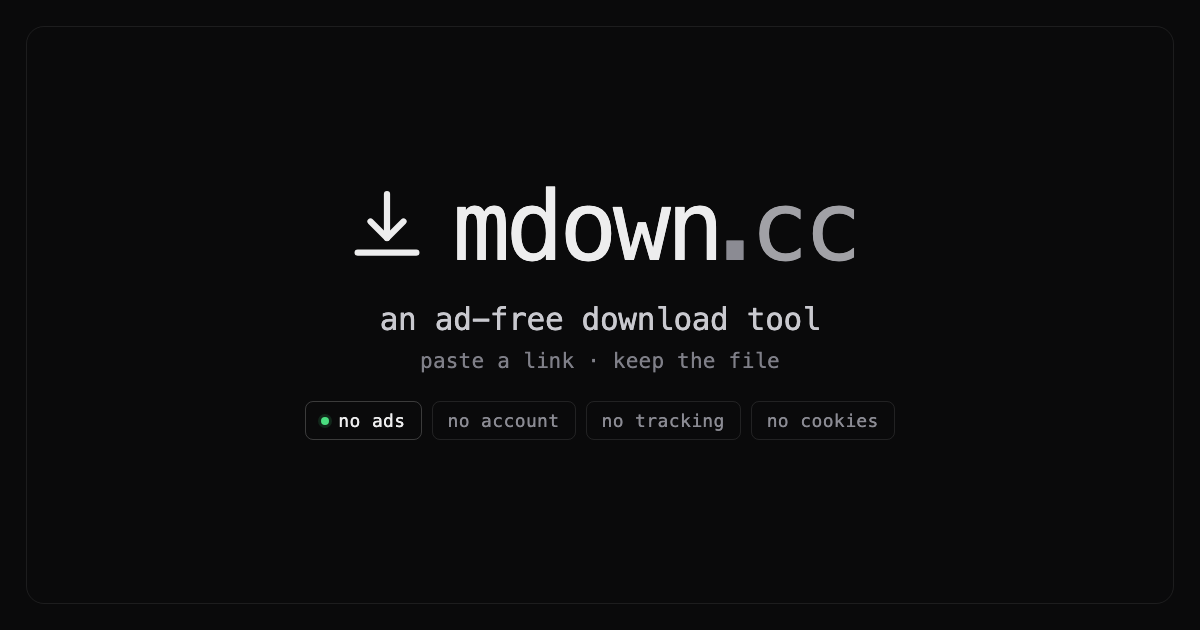
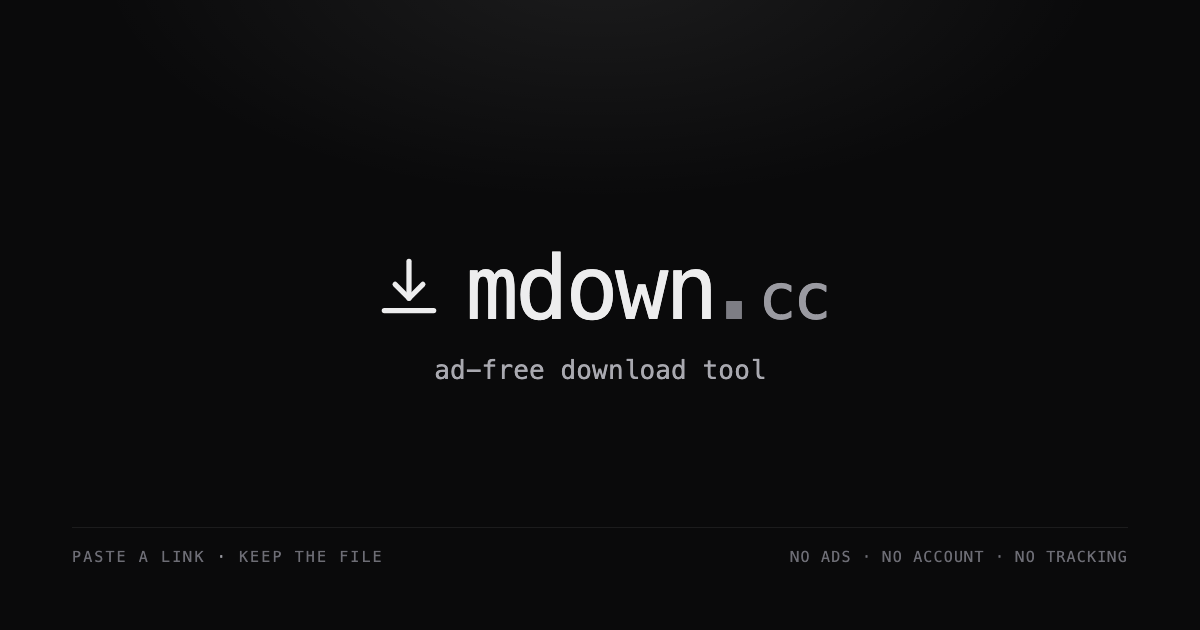
embed: 'mdown.cc — ad-free download tool', a redrawn card with one line and a hairline foot, complete tags on every page (api.html had none)

diff --git a/tests/og-card.html b/tests/og-card.html
@@ -7,7 +7,7 @@
   The 1200x630 card every link preview uses. Not published: render it with
 
     chrome --headless --disable-gpu --hide-scrollbars --window-size=1200,630 \
-      --screenshot=assets/og-card.png tests/og-card.html
+      --force-device-scale-factor=1 --screenshot=assets/og-card.png tests/og-card.html
 
   It is a standalone page on purpose — the app itself is versioned, themed and
   connects to a server, none of which belongs in a static preview.
@@ -16,61 +16,55 @@
   html, body { margin: 0; width: 1200px; height: 630px; background: #0a0a0b; }
   body {
     font-family: ui-monospace, "SF Mono", SFMono-Regular, Menlo, Consolas, monospace;
-    color: #ededee;
-    display: grid; place-items: center;
-    overflow: hidden;
+    color: #ededee; overflow: hidden;
   }
-  .card { width: 100%; height: 100%; display: grid; place-items: center; position: relative; }
-  .frame {
-    position: absolute; inset: 26px; border: 1px solid rgba(255, 255, 255, 0.08);
-    border-radius: 18px;
+  /* one pool of light, the same gesture as the page: lit, not decorated */
+  .card {
+    width: 100%; height: 100%; position: relative;
+    display: grid; align-content: center; justify-items: center;
+    background:
+      radial-gradient(720px 340px at 50% -6%, rgba(255,255,255,0.075), transparent 70%),
+      #0a0a0b;
   }
-  .inner { display: grid; justify-items: center; gap: 26px; transform: translateY(-6px); }
+  .logo { display: flex; align-items: center; gap: 20px; margin-bottom: 22px; }
+  .mark svg { display: block; width: 74px; height: 74px; }
+  .word { font-size: 88px; letter-spacing: -0.035em; font-weight: 500; line-height: 1; }
+  .word .dot { color: #7d7d84; margin: 0 -0.06em; }
+  .word .cc { color: #9a9aa1; font-weight: 400; font-size: 0.72em; margin-left: 0.06em; }
 
-  .logo { display: flex; align-items: center; gap: 22px; }
-  .mark { color: #ededee; }
-  .mark svg { display: block; width: 88px; height: 88px; }
-  .word { font-size: 96px; letter-spacing: -0.045em; font-weight: 500; line-height: 1; }
-  .word .dot { color: #8b8b93; margin: 0 -0.12em; }
-  .word .cc { color: #a1a1a6; font-weight: 400; }
-
-  .tagline { font-size: 31px; color: #c9c9cf; letter-spacing: -0.01em; }
-
-  .sub { font-size: 21px; color: #7f7f88; letter-spacing: 0.01em; margin-top: -14px; }
-.chips { display: flex; gap: 10px; margin-top: 2px; }
-  .chip {
-    padding: 8px 15px; border-radius: 8px;
-    border: 1px solid rgba(255, 255, 255, 0.1);
-    color: #8b8b93; font-size: 18px; letter-spacing: 0.02em;
+  .tagline {
+    font-size: 26px; color: #a9a9b0; letter-spacing: 0.005em;
+    margin: 0;
   }
-  .chip.live { color: #ededee; border-color: rgba(255, 255, 255, 0.2); }
-  .chip.live::before {
-    content: ""; display: inline-block; vertical-align: 2px;
-    width: 8px; height: 8px; border-radius: 50%; background: #4ade80;
-    margin-right: 9px; box-shadow: 0 0 0 3px rgba(74, 222, 128, 0.14);
+
+  /* the foot: a hairline, the address on one side, the promise on the other */
+  .foot {
+    position: absolute; left: 72px; right: 72px; bottom: 64px;
+    display: flex; align-items: center; justify-content: space-between;
+    padding-top: 20px;
+    border-top: 1px solid rgba(255, 255, 255, 0.075);
+    font-size: 15px; letter-spacing: 0.14em; text-transform: uppercase;
+    color: #6d6d75;
   }
+  .foot .right { letter-spacing: 0.08em; }
+  .foot b { font-weight: 400; color: #9a9aa1; }
 </style>
 </head>
 <body>
   <div class="card">
-    <div class="frame" aria-hidden="true"></div>
-    <div class="inner">
-      <div class="logo">
-        <span class="mark" aria-hidden="true">
-          <svg viewBox="0 0 24 24" fill="none" stroke="currentColor" stroke-width="1.7" stroke-linecap="round" stroke-linejoin="round">
-            <path d="M12 3v12"/><path d="m7.5 10.5 4.5 4.5 4.5-4.5"/><path d="M4 19h16"/>
-          </svg>
-        </span>
-        <span class="word">mdown<span class="dot">.</span><span class="cc">cc</span></span>
-      </div>
-      <div class="tagline">an ad-free download tool</div>
-      <div class="sub">paste a link · keep the file</div>
-      <div class="chips">
-        <span class="chip live">no ads</span>
-        <span class="chip">no account</span>
-        <span class="chip">no tracking</span>
-        <span class="chip">no cookies</span>
-      </div>
+    <div class="logo">
+      <span class="mark" aria-hidden="true">
+        <svg viewBox="0 0 24 24" fill="none" stroke="currentColor" stroke-width="1.7" stroke-linecap="round" stroke-linejoin="round">
+          <path d="M12 3v12"/><path d="m7.5 10.5 4.5 4.5 4.5-4.5"/><path d="M4 19h16"/>
+        </svg>
+      </span>
+      <span class="word">mdown<span class="dot">.</span><span class="cc">cc</span></span>
+    </div>
+    <p class="tagline">ad-free download tool</p>
+
+    <div class="foot" aria-hidden="true">
+      <span>paste a link<b> · </b>keep the file</span>
+      <span class="right">no ads · no account · no tracking</span>
     </div>
   </div>
 </body>

diff --git a/index.html b/index.html
@@ -6,7 +6,7 @@
 <meta http-equiv="Content-Security-Policy" content="default-src 'self'; script-src 'self' 'unsafe-inline' 'wasm-unsafe-eval' https://challenges.cloudflare.com; style-src 'self' 'unsafe-inline'; img-src 'self' data: blob: http: https:; media-src 'self' blob:; font-src 'self' data:; connect-src 'self' http: https:; frame-src https://challenges.cloudflare.com; worker-src 'self' blob:; child-src 'self' blob:; object-src 'none'; base-uri 'none'; form-action 'none'">
 <meta name="referrer" content="strict-origin-when-cross-origin">
 <meta name="viewport" content="width=device-width, initial-scale=1, viewport-fit=cover">
-<title>mdown.cc — an ad-free download tool</title>
+<title>mdown.cc — ad-free download tool</title>
 <meta name="description" content="No ads, no account, no tracking. Paste a link and keep the video or audio — plus remux, subtitle and metadata tools that run in your browser.">
 <meta name="robots" content="index, follow, max-image-preview:large, max-snippet:-1">
 <meta name="keywords" content="media downloader, video downloader, audio downloader, mp4, mp3, remux, subtitle extractor, metadata cleaner, no ads, no account">
@@ -15,18 +15,18 @@
 <meta property="og:type" content="website">
 <meta property="og:site_name" content="mdown.cc">
 <meta property="og:url" content="https://mdown.cc/">
-<meta property="og:title" content="mdown.cc — an ad-free download tool">
+<meta property="og:title" content="mdown.cc — ad-free download tool">
 <meta property="og:description" content="No ads, no account, no tracking. Paste a link and keep the video or audio.">
-<meta property="og:image" content="https://mdown.cc/assets/og-card.png?v=4">
+<meta property="og:image" content="https://mdown.cc/assets/og-card.png?v=5">
 <meta property="og:image:type" content="image/png">
 <meta property="og:image:width" content="1200">
 <meta property="og:image:height" content="630">
-<meta property="og:image:alt" content="mdown.cc — a monochrome wordmark on a black card.">
+<meta property="og:image:alt" content="mdown.cc — ad-free download tool, in monospace on a near-black card.">
 <meta property="og:locale" content="en_US">
 <meta name="twitter:card" content="summary_large_image">
-<meta name="twitter:image" content="https://mdown.cc/assets/og-card.png?v=4">
-<meta name="twitter:image:alt" content="mdown.cc — a monochrome wordmark on a black card.">
-<meta name="twitter:title" content="mdown.cc — an ad-free download tool">
+<meta name="twitter:image" content="https://mdown.cc/assets/og-card.png?v=5">
+<meta name="twitter:image:alt" content="mdown.cc — ad-free download tool, in monospace on a near-black card.">
+<meta name="twitter:title" content="mdown.cc — ad-free download tool">
 <meta name="twitter:description" content="No ads, no account, no tracking. Paste a link and keep the video or audio.">
 <meta name="color-scheme" content="dark light">
 <meta name="theme-color" content="#0a0a0b">
@@ -988,7 +988,7 @@
 
 <noscript>
   <div class="wrap" style="padding-bottom:32px">
-    <h2>mdown.cc — an ad-free download tool</h2>
+    <h2>mdown.cc — ad-free download tool</h2>
     <p>mdown.cc is a media downloader for video and audio: no ads, no account, no tracking. It saves MP4, WebM, MKV, MP3, OGG, OPUS and WAV from about thirty services, and includes three tools that run in the browser: a remuxer, a subtitle extractor and a metadata cleaner.</p>
     <p>Downloading needs JavaScript. The <a href="updates.html">changelog</a>, <a href="terms.html">terms</a> and <a href="status.html">status</a> pages do not.</p>
   </div>

diff --git a/status.html b/status.html
@@ -7,7 +7,7 @@
 <meta name="referrer" content="strict-origin-when-cross-origin">
 <meta name="viewport" content="width=device-width, initial-scale=1, viewport-fit=cover">
 <title>Status — mdown.cc</title>
-<meta name="description" content="Live health of the mdown API: downloader, ffmpeg, storage and queue depth.">
+<meta name="description" content="Live health of the mdown.cc API: downloader, ffmpeg, storage and queue depth.">
 <link rel="canonical" href="https://mdown.cc/status.html">
 <meta name="robots" content="noindex">
 <meta property="og:type" content="website">
@@ -15,16 +15,16 @@
 <meta property="og:url" content="https://mdown.cc/status.html">
 <meta property="og:title" content="Status — mdown.cc">
 <meta property="og:description" content="Live health of the mdown.cc API: downloader, ffmpeg, storage and queue depth.">
-<meta property="og:image" content="https://mdown.cc/assets/og-card.png?v=4">
+<meta property="og:image" content="https://mdown.cc/assets/og-card.png?v=5">
 <meta property="og:image:type" content="image/png">
 <meta property="og:image:width" content="1200">
 <meta property="og:image:height" content="630">
-<meta property="og:image:alt" content="mdown.cc — a monochrome wordmark on a black card.">
+<meta property="og:image:alt" content="mdown.cc — ad-free download tool, in monospace on a near-black card.">
 <meta name="twitter:card" content="summary_large_image">
 <meta name="twitter:title" content="Status — mdown.cc">
 <meta name="twitter:description" content="Live health of the mdown.cc API: downloader, ffmpeg, storage and queue depth.">
-<meta name="twitter:image" content="https://mdown.cc/assets/og-card.png?v=4">
-<meta name="twitter:image:alt" content="mdown.cc — a monochrome wordmark on a black card.">
+<meta name="twitter:image" content="https://mdown.cc/assets/og-card.png?v=5">
+<meta name="twitter:image:alt" content="mdown.cc — ad-free download tool, in monospace on a near-black card.">
 <meta name="color-scheme" content="dark light">
 <meta name="theme-color" content="#0a0a0b">
 <link rel="manifest" href="manifest.webmanifest">

diff --git a/api.html b/api.html
@@ -9,6 +9,22 @@
 <meta name="description" content="api.mdown.cc is one small server for this page. Who may call it, what the limits are, and how to run your own.">
 <link rel="canonical" href="https://mdown.cc/api.html">
 <meta name="robots" content="index, follow">
+<meta property="og:type" content="website">
+<meta property="og:site_name" content="mdown.cc">
+<meta property="og:url" content="https://mdown.cc/api.html">
+<meta property="og:title" content="API use — mdown.cc">
+<meta property="og:description" content="api.mdown.cc is one small server for this page: who may call it, what the limits are, and how to run your own.">
+<meta property="og:image" content="https://mdown.cc/assets/og-card.png?v=5">
+<meta property="og:image:type" content="image/png">
+<meta property="og:image:width" content="1200">
+<meta property="og:image:height" content="630">
+<meta property="og:image:alt" content="mdown.cc — ad-free download tool, in monospace on a near-black card.">
+<meta property="og:locale" content="en_US">
+<meta name="twitter:card" content="summary_large_image">
+<meta name="twitter:title" content="API use — mdown.cc">
+<meta name="twitter:description" content="api.mdown.cc is one small server for this page: who may call it, what the limits are, and how to run your own.">
+<meta name="twitter:image" content="https://mdown.cc/assets/og-card.png?v=5">
+<meta name="twitter:image:alt" content="mdown.cc — ad-free download tool, in monospace on a near-black card.">
 <meta name="color-scheme" content="dark light">
 <meta name="theme-color" content="#0a0a0b">
 <link rel="stylesheet" href="assets/app.css?v=229">

diff --git a/donate.html b/donate.html
@@ -15,16 +15,16 @@
 <meta property="og:url" content="https://mdown.cc/donate.html">
 <meta property="og:title" content="Support — mdown.cc">
 <meta property="og:description" content="mdown.cc is free, with no ads and no account. If it saved you an evening you can leave a tip; nothing changes if you don't.">
-<meta property="og:image" content="https://mdown.cc/assets/og-card.png?v=4">
+<meta property="og:image" content="https://mdown.cc/assets/og-card.png?v=5">
 <meta property="og:image:type" content="image/png">
 <meta property="og:image:width" content="1200">
 <meta property="og:image:height" content="630">
-<meta property="og:image:alt" content="mdown.cc — a monochrome wordmark on a black card.">
+<meta property="og:image:alt" content="mdown.cc — ad-free download tool, in monospace on a near-black card.">
 <meta name="twitter:card" content="summary_large_image">
 <meta name="twitter:title" content="Support — mdown.cc">
 <meta name="twitter:description" content="mdown.cc is free, with no ads and no account. If it saved you an evening you can leave a tip; nothing changes if you don't.">
-<meta name="twitter:image" content="https://mdown.cc/assets/og-card.png?v=4">
-<meta name="twitter:image:alt" content="mdown.cc — a monochrome wordmark on a black card.">
+<meta name="twitter:image" content="https://mdown.cc/assets/og-card.png?v=5">
+<meta name="twitter:image:alt" content="mdown.cc — ad-free download tool, in monospace on a near-black card.">
 <meta name="color-scheme" content="dark light">
 <meta name="theme-color" content="#0a0a0b">
 <link rel="manifest" href="manifest.webmanifest">

diff --git a/updates.html b/updates.html
@@ -15,16 +15,16 @@
 <meta property="og:url" content="https://mdown.cc/updates.html">
 <meta property="og:title" content="Updates — mdown.cc">
 <meta property="og:description" content="What changed in mdown.cc, newest first: formats, mobile fixes, limits, and the things that broke and got fixed.">
-<meta property="og:image" content="https://mdown.cc/assets/og-card.png?v=4">
+<meta property="og:image" content="https://mdown.cc/assets/og-card.png?v=5">
 <meta property="og:image:type" content="image/png">
 <meta property="og:image:width" content="1200">
 <meta property="og:image:height" content="630">
-<meta property="og:image:alt" content="mdown.cc — a monochrome wordmark on a black card.">
+<meta property="og:image:alt" content="mdown.cc — ad-free download tool, in monospace on a near-black card.">
 <meta name="twitter:card" content="summary_large_image">
 <meta name="twitter:title" content="Updates — mdown.cc">
 <meta name="twitter:description" content="What changed in mdown.cc, newest first: formats, mobile fixes, limits, and the things that broke and got fixed.">
-<meta name="twitter:image" content="https://mdown.cc/assets/og-card.png?v=4">
-<meta name="twitter:image:alt" content="mdown.cc — a monochrome wordmark on a black card.">
+<meta name="twitter:image" content="https://mdown.cc/assets/og-card.png?v=5">
+<meta name="twitter:image:alt" content="mdown.cc — ad-free download tool, in monospace on a near-black card.">
 <meta name="color-scheme" content="dark light">
 <meta name="theme-color" content="#0a0a0b">
 <link rel="manifest" href="manifest.webmanifest">

diff --git a/terms.html b/terms.html
@@ -15,16 +15,16 @@
 <meta property="og:url" content="https://mdown.cc/terms.html">
 <meta property="og:title" content="Terms — mdown.cc">
 <meta property="og:description" content="The short, plain version of what mdown.cc does and does not do with your links, your files and your browser.">
-<meta property="og:image" content="https://mdown.cc/assets/og-card.png?v=4">
+<meta property="og:image" content="https://mdown.cc/assets/og-card.png?v=5">
 <meta property="og:image:type" content="image/png">
 <meta property="og:image:width" content="1200">
 <meta property="og:image:height" content="630">
-<meta property="og:image:alt" content="mdown.cc — a monochrome wordmark on a black card.">
+<meta property="og:image:alt" content="mdown.cc — ad-free download tool, in monospace on a near-black card.">
 <meta name="twitter:card" content="summary_large_image">
 <meta name="twitter:title" content="Terms — mdown.cc">
 <meta name="twitter:description" content="The short, plain version of what mdown.cc does and does not do with your links, your files and your browser.">
-<meta name="twitter:image" content="https://mdown.cc/assets/og-card.png?v=4">
-<meta name="twitter:image:alt" content="mdown.cc — a monochrome wordmark on a black card.">
+<meta name="twitter:image" content="https://mdown.cc/assets/og-card.png?v=5">
+<meta name="twitter:image:alt" content="mdown.cc — ad-free download tool, in monospace on a near-black card.">
 <meta name="color-scheme" content="dark light">
 <meta name="theme-color" content="#0a0a0b">
 <link rel="manifest" href="manifest.webmanifest">

diff --git a/sources.html b/sources.html
@@ -15,15 +15,16 @@
 <meta property="og:url" content="https://mdown.cc/sources.html">
 <meta property="og:title" content="Sources — mdown.cc">
 <meta property="og:description" content="The 33 services mdown can fetch from, with a link to each one.">
-<meta property="og:image" content="https://mdown.cc/assets/og-card.png?v=4">
+<meta property="og:image" content="https://mdown.cc/assets/og-card.png?v=5">
 <meta property="og:image:type" content="image/png">
 <meta property="og:image:width" content="1200">
 <meta property="og:image:height" content="630">
-<meta property="og:image:alt" content="mdown.cc — a monochrome wordmark on a black card.">
+<meta property="og:image:alt" content="mdown.cc — ad-free download tool, in monospace on a near-black card.">
 <meta name="twitter:card" content="summary_large_image">
 <meta name="twitter:title" content="Sources — mdown.cc">
 <meta name="twitter:description" content="The 33 services mdown can fetch from, with a link to each one.">
-<meta name="twitter:image" content="https://mdown.cc/assets/og-card.png?v=4">
+<meta name="twitter:image" content="https://mdown.cc/assets/og-card.png?v=5">
+<meta name="twitter:image:alt" content="mdown.cc — ad-free download tool, in monospace on a near-black card.">
 <meta name="theme-color" content="#0a0a0b">
 <meta name="color-scheme" content="dark light">
 <link rel="manifest" href="manifest.webmanifest">

diff --git a/tests/meta.test.html b/tests/meta.test.html
@@ -60,6 +60,11 @@ async function main() {
   record("the image has alt text", meta(doc, "property", "og:image:alt").length > 20,
     meta(doc, "property", "og:image:alt"));
 
+  // the line in the embed is the line on the site, minus the article
+  record("the card title is the logline",
+    meta(doc, "property", "og:title") === "mdown.cc — ad-free download tool",
+    meta(doc, "property", "og:title"));
+
   record("twitter uses the large card with the same image",
     meta(doc, "name", "twitter:card") === "summary_large_image" &&
     meta(doc, "name", "twitter:image") === image,
@@ -80,7 +85,7 @@ async function main() {
     loaded.w + "x" + loaded.h);
 
   // every published page carries a card, not just the home page
-  const pages = ["updates.html", "donate.html", "terms.html", "status.html"];
+  const pages = ["updates.html", "donate.html", "terms.html", "status.html", "sources.html", "api.html"];
   const docs = await Promise.all(pages.map((name) =>
     fetch("../" + name).then((r) => r.text()).then((html) =>
       new DOMParser().parseFromString(html, "text/html"))));

diff --git a/assets/nav.js b/assets/nav.js
@@ -12,7 +12,7 @@ const PANELS = {
 
 const META = {
   download: {
-    title: "mdown.cc — an ad-free download tool",
+    title: "mdown.cc — ad-free download tool",
     desc: "No ads, no account. Paste a link and keep the video or audio. Remux, subtitles and metadata tools run in your browser."
   },
   remux: {
